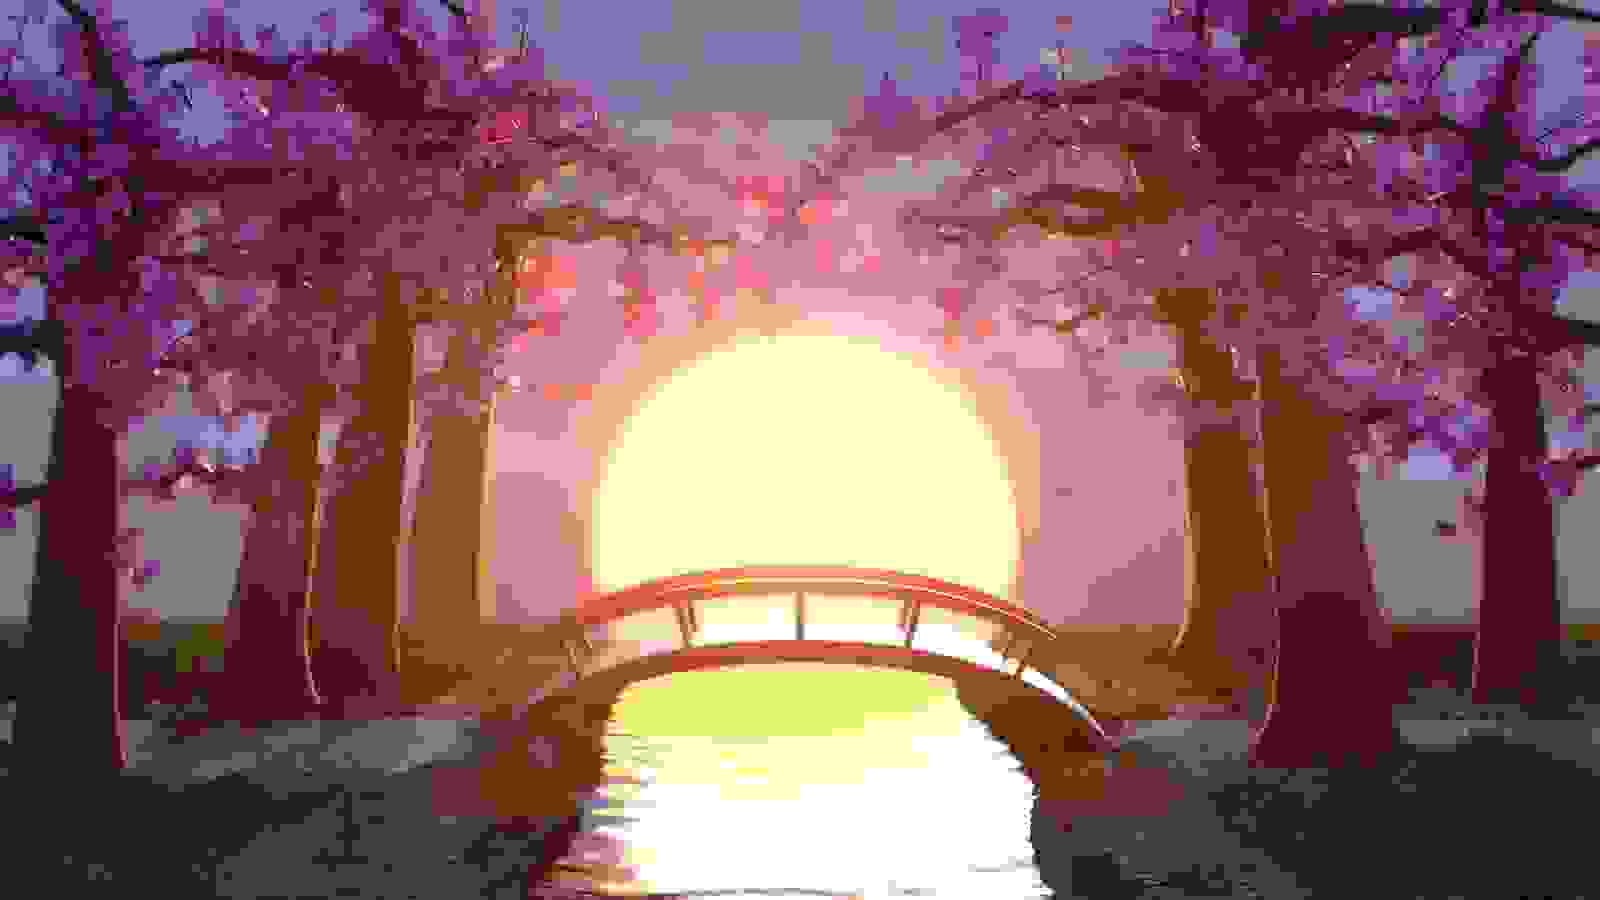
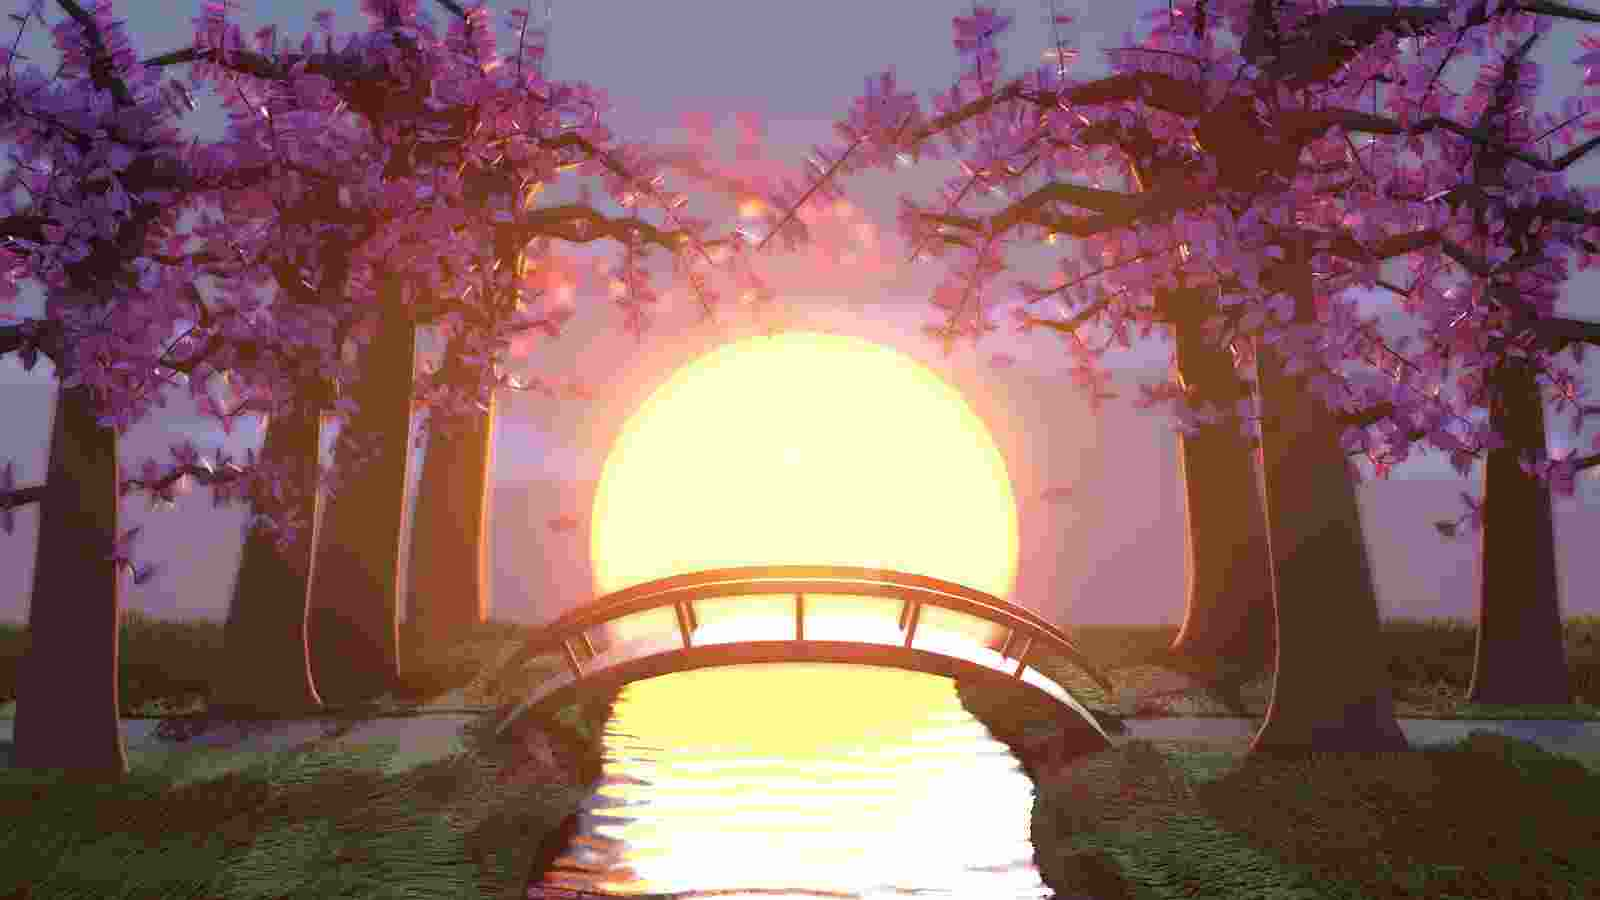
Fixed over compression issue

diff --git a/style.css b/style.css
@@ -32,7 +32,7 @@ body {
 }
 
 .bg {
-  background-image: linear-gradient(rgba(90, 44, 44, 0.75), rgba(147, 146, 156, 0.75)), url('images/background.avif');
+  background-image: linear-gradient(rgba(90, 44, 44, 0.75), rgba(147, 146, 156, 0.75)), url('images/background.jpg');
   background-size: cover;
   background-color: #90EE90; 
   background-attachment: fixed;
